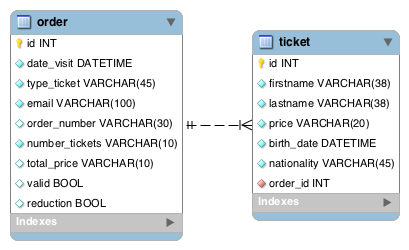
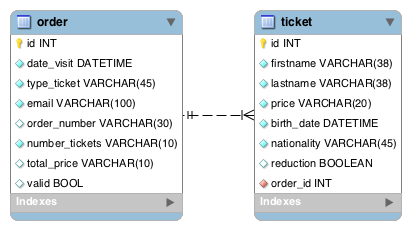
[++][FIX][Hotfix] Fix phpcs

diff --git a/web/js/app.js b/web/js/app.js
@@ -1,10 +1,5 @@
 $(function () {
     $("#order_dateVisit").datepicker({
-        monthNames: ["Janvier", "Février", "Mars", "Avril", "Mai", "Juin", "Juillet", "Aout", "Septembre", "Octobre", "Novembre", "Décembre"],
-        monthNamesShort: ["Jan", "Fév", "Mar", "Avr", "Mai", "Jui", "Juil", "Aou", "Sep", "Oct", "Nov", "Dec"],
-        dayNames: ["Dimanche", "Lundi", "Mardi", "Mercredi", "Jeudi", "Vendredi", "Samedi"],
-        dayNamesShort: ["Dim", "Lun", "Mar", "Mer", "Jeu", "Ven", "Sam"],
-        dayNamesMin: ["Di", "Lu", "Ma", "Me", "Je", "Ve", "Sa"],
         minDate: new Date(),
         maxDate: "+12M",
         dateFormat: "dd-MM-yy"

diff --git a/web/css/style.css b/web/css/style.css
@@ -61,6 +61,7 @@ div > .order-button
     margin-top: 50px;
     padding: 30px 30px 30px 30px;
     box-shadow: #0f0f0f 5px 5px 10px;
+    margin-bottom: 80px;
 }
 
 /*----- Mails -------- */
@@ -92,6 +93,7 @@ hr
     color: white;
     padding: 30px 30px 30px 30px;
     box-shadow: #0f0f0f 5px 5px 10px;
+    margin-bottom: 100px
 }
 .form-group > ul > li
 {
@@ -128,4 +130,13 @@ tbody
 {
     background-color: #d3d3d3;
     color: black;
+}
+.background-confirm
+{
+    background-color: #111110;
+    border-radius: 5px 5px 5px 5px;
+    opacity: 0.7;
+    color: white;
+    padding: 10px 30px 30px 30px;
+    box-shadow: #0f0f0f 5px 5px 10px;
 }

diff --git a/src/AppBundle/Services/OrderManager.php b/src/AppBundle/Services/OrderManager.php
@@ -97,12 +97,14 @@ class OrderManager
                     );
                 }
 
-                if (!$this->isHalfDayPossible($datas->getDateVisit())) {
-                    throw new \Exception(
-                        sprintf(
-                            'Vous ne pouvez plus réserver votre billet pour la journée complète car il est 14h00 passé'
-                        )
-                    );
+                if ($datas->getTypeTicket() == 0) {
+                    if (!$this->isHalfDayPossible($datas->getDateVisit())) {
+                        throw new \Exception(
+                            sprintf(
+                                'Vous ne pouvez plus réserver votre billet pour la journée complète car il est 14h00 passé'
+                            )
+                        );
+                    }
                 }
 
                 while ($numberTickets > 0) {
@@ -233,12 +235,14 @@ class OrderManager
                 try {
                     Stripe::setApiKey($this->stripeToken);
 
-                    Charge::create([
-                        'amount' => $order->getTotalPrice() * 100,
-                        'currency' => 'eur',
-                        'source' => $token,
-                        'description' => 'Billeterie - Musée du Louvre',
-                    ]);
+                    Charge::create(
+                        [
+                            'amount' => $order->getTotalPrice() * 100,
+                            'currency' => 'eur',
+                            'source' => $token,
+                            'description' => 'Billeterie - Musée du Louvre',
+                        ]
+                    );
 
                     $this->em->flush();
                     $this->session->getFlashBag()->add(
@@ -380,6 +384,18 @@ class OrderManager
     }
 
     /**
+     * Return number of ticket is register for selected day.
+     *
+     * @param \DateTime $date Date of selected day
+     *
+     * @return int
+     */
+    private function getTicketsRegistered(\DateTime $date)
+    {
+        return count($this->em->getRepository(Ticket::class)->getTicketsByDay($date));
+    }
+
+    /**
      * Check if half day booking is possible.
      *
      * @param \DateTime $date
@@ -399,17 +415,5 @@ class OrderManager
         }
 
         return true;
-    }
-
-    /**
-     * Return number of ticket is register for selected day.
-     *
-     * @param \DateTime $date Date of selected day
-     *
-     * @return int
-     */
-    private function getTicketsRegistered(\DateTime $date)
-    {
-        return count($this->em->getRepository(Ticket::class)->getTicketsByDay($date));
     }
 }

diff --git a/src/AppBundle/Form/Type/TicketType.php b/src/AppBundle/Form/Type/TicketType.php
@@ -12,6 +12,7 @@ use Symfony\Component\Form\FormBuilderInterface;
 use Symfony\Component\OptionsResolver\OptionsResolver;
 use Symfony\Component\Validator\Constraints\Length;
 use Symfony\Component\Validator\Constraints\NotBlank;
+use Symfony\Component\Validator\Constraints\Regex;
 
 /**
  * Class TicketType.
@@ -37,6 +38,10 @@ class TicketType extends AbstractType
                         'max' => 38,
                         'maxMessage' => 'Le champ prénom dépasse 38 caractères',
                     ]),
+                    new Regex([
+                        'pattern' => '/[a-zA-Zéèêëäâà]$/',
+                        'message' => 'Le champ nom peut contenir uniquement des caractères alphabétiques',
+                    ]),
                 ],
             ])
             ->add('lastname', TextType::class, [
@@ -49,6 +54,10 @@ class TicketType extends AbstractType
                     new Length([
                         'max' => 38,
                         'maxMessage' => 'Le champ nom dépasse 38 caractères',
+                    ]),
+                    new Regex([
+                        'pattern' => '/[a-zA-Zéèêëäâà]$/',
+                        'message' => 'Le champ nom peut contenir uniquement des caractères alphabétiques',
                     ]),
                 ],
             ])

diff --git a/src/AppBundle/Form/Type/ContactType.php b/src/AppBundle/Form/Type/ContactType.php
@@ -10,6 +10,7 @@ use Symfony\Component\Form\Extension\Core\Type\TextType;
 use Symfony\Component\Form\FormBuilderInterface;
 use Symfony\Component\Validator\Constraints\Length;
 use Symfony\Component\Validator\Constraints\NotBlank;
+use Symfony\Component\Validator\Constraints\Regex;
 
 /**
  * Class ContactType.
@@ -39,6 +40,10 @@ class ContactType extends AbstractType
                         new Length([
                             'max' => 38,
                             'maxMessage' => 'Le champ nom fait plus de 38 caractères',
+                        ]),
+                        new Regex([
+                            'pattern' => '/[a-zA-Zéèêëäâà]$/',
+                            'message' => 'Le champ nom peut contenir uniquement des caractères alphabétiques',
                         ]),
                     ],
                 ]

diff --git a/src/AppBundle/Entity/Ticket.php b/src/AppBundle/Entity/Ticket.php
@@ -78,6 +78,8 @@ class Ticket
 
     /**
      * @var bool
+     *
+     * @ORM\Column(name="reduction", type="string", nullable=true)
      */
     private $reduction;
 
